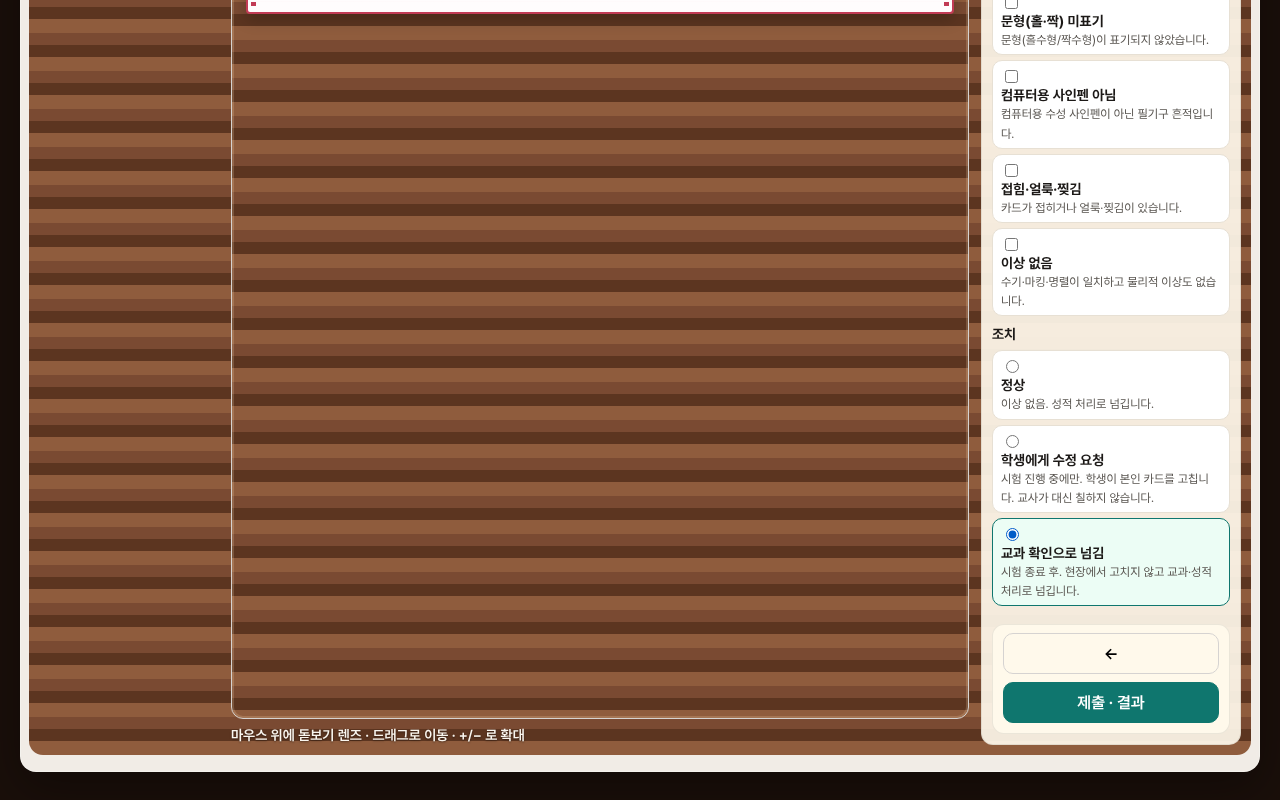
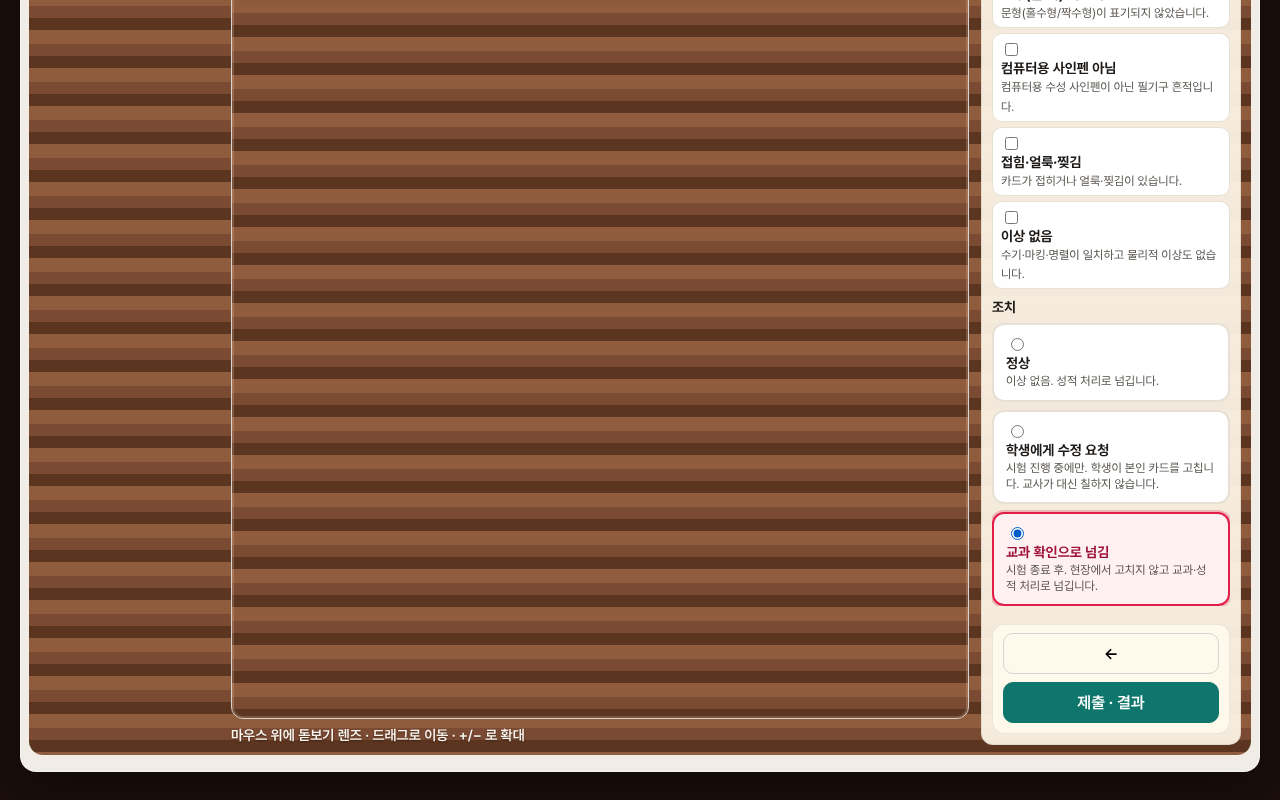
Round 0043: color-coded disposition choices
Tint 정상/학생 수정 요청/교과 확인 so the selected action
is obvious during OMR inspection.

diff --git a/src/style.css b/src/style.css
@@ -1445,3 +1445,33 @@ kbd {
 .score-bar i {
   background: linear-gradient(90deg, #34d399, #0f766e) !important;
 }
+
+
+/* 0043 disposition color coding */
+.disp-form { display: grid; gap: 8px; }
+.disp {
+  border-width: 2px !important;
+  border-radius: 12px !important;
+  padding: 10px 12px !important;
+  transition: background 0.12s, border-color 0.12s, box-shadow 0.12s;
+}
+.disp.disp-ok.on {
+  background: #ecfdf5 !important;
+  border-color: #10b981 !important;
+  box-shadow: 0 0 0 2px rgba(16,185,129,0.25);
+}
+.disp.disp-ask_student.on {
+  background: #fffbeb !important;
+  border-color: #f59e0b !important;
+  box-shadow: 0 0 0 2px rgba(245,158,11,0.28);
+}
+.disp.disp-to_subject.on {
+  background: #fff1f2 !important;
+  border-color: #e11d48 !important;
+  box-shadow: 0 0 0 2px rgba(225,29,72,0.25);
+}
+.disp strong { font-size: 14px !important; }
+.disp small { font-size: 12px !important; line-height: 1.35; display: block; margin-top: 2px; }
+.disp.disp-ok.on strong { color: #065f46; }
+.disp.disp-ask_student.on strong { color: #92400e; }
+.disp.disp-to_subject.on strong { color: #9f1239; }

diff --git a/src/main.ts b/src/main.ts
@@ -718,7 +718,7 @@ function renderInspection() {
   const dispositions = (['ok', 'ask_student', 'to_subject'] as Disposition[])
     .map(
       (disp) => `
-<label class="disp ${j.disposition === disp ? 'on' : ''}">
+<label class="disp disp-${disp} ${j.disposition === disp ? 'on' : ''}" data-disp="${disp}">
   <input type="radio" name="disp" value="${disp}" ${j.disposition === disp ? 'checked' : ''}/>
   <span><strong>${DISPOSITION_LABELS[disp]}</strong><small>${DISPOSITION_HINTS[disp]}</small></span>
 </label>`,

diff --git a/docs/issues/0043-disposition-colors.md b/docs/issues/0043-disposition-colors.md
@@ -1,0 +1,10 @@
+# 0043 Disposition color coding
+
+## Critique
+정상 / 학생 수정 요청 / 교과 확인 looked the same when selected.
+
+## Fix
+Green / amber / rose selected states with stronger type.
+
+## Verify
+e2e OK · viewport OK

diff --git a/docs/ROUNDLOG.md b/docs/ROUNDLOG.md
@@ -55,3 +55,6 @@
 
 ## Round 0042 (02:52 KST)
 - Results grade badge + colored meters
+
+## Round 0043 (02:53 KST)
+- Disposition color coding on inspection
